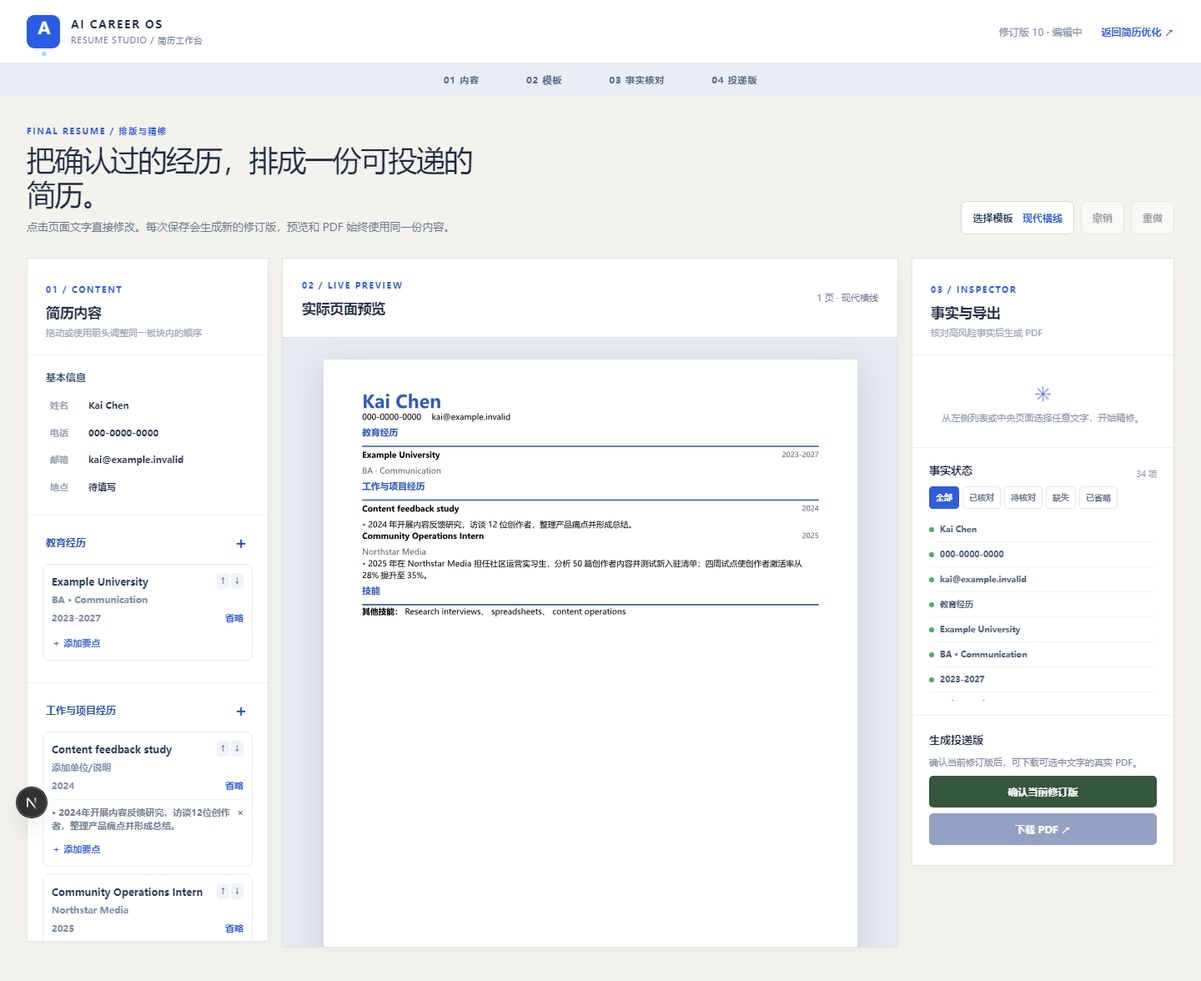
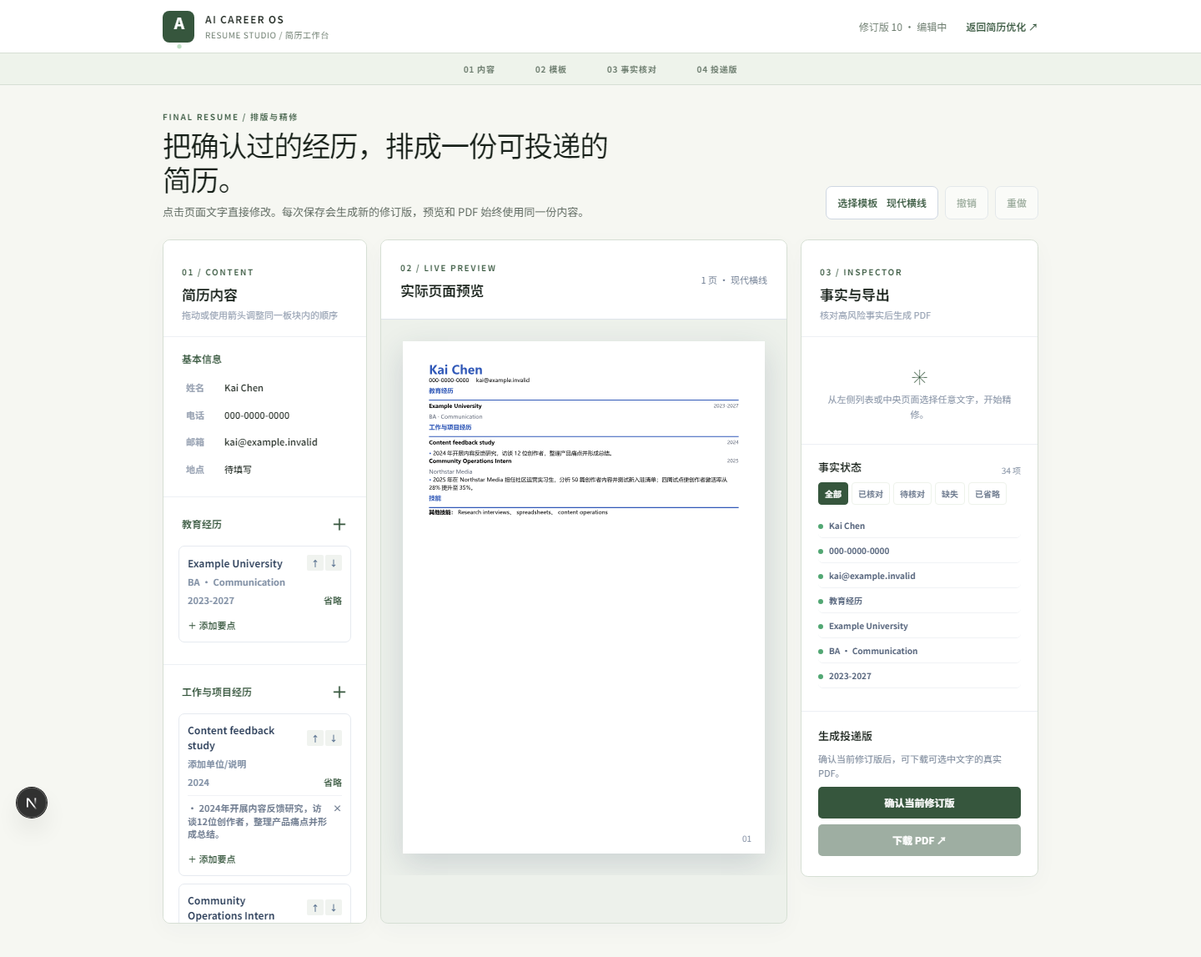
feat: align resume studio with mission UI

diff --git a/apps/web/app/resume-studio/studio.css b/apps/web/app/resume-studio/studio.css
@@ -1,44 +1,44 @@
-.rs-root { min-height: 100vh; background: #f4f2ed; color: #1d2940; font-family: "Microsoft YaHei", "Noto Sans SC", sans-serif; }
+.rs-root { --rs-bg: #f6f7f2; --rs-surface: #fff; --rs-surface-muted: #fbfcfa; --rs-ink: #172019; --rs-primary: #36563d; --rs-primary-soft: #e2f4e5; --rs-muted: #5d685f; --rs-meta: #6c7c6e; --rs-border: #d6dfd4; --rs-border-subtle: #edf1eb; min-height: 100vh; background: var(--rs-bg); color: var(--rs-ink); font-family: "Noto Sans SC", "PingFang SC", "Microsoft YaHei", sans-serif; }
 .rs-root * { box-sizing: border-box; }
 .rs-root button { cursor: pointer; }
 .rs-root button:disabled { opacity: .48; cursor: not-allowed; }
-.rs-root .rs-secondary { background: #fff; color: #253856; border: 1px solid #cfd7e2; }
-.rs-topbar { height: 76px; display: flex; align-items: center; justify-content: space-between; padding: 0 max(32px, calc((100vw - 1800px)/2)); background: #fff; border-bottom: 1px solid #e4e8ed; }
+.rs-root .rs-secondary { background: #fff; color: #36563d; border: 1px solid #cfd7e2; }
+.rs-topbar { height: 64px; display: flex; align-items: center; justify-content: space-between; padding: 0 max(24px, calc((100vw - 1050px)/2)); background: var(--rs-surface); border-bottom: 1px solid var(--rs-border); }
 .rs-brand { display: flex; align-items: center; gap: 13px; }
-.rs-logo { width: 40px; height: 40px; display: grid; place-items: center; background: #2d5ce4; color: white; border-radius: 9px; font-weight: 900; letter-spacing: -.1em; font-size: 20px; }
-.rs-logo span { color: #b7d2ff; }
+.rs-logo { width: 38px; height: 38px; display: grid; place-items: center; background: var(--rs-primary); color: white; border-radius: 8px; font-weight: 900; letter-spacing: -.1em; font-size: 19px; }
+.rs-logo span { color: #bfe0c4; }
 .rs-brand div { display: grid; gap: 2px; }
-.rs-brand strong { letter-spacing: .12em; font-size: 13px; }
-.rs-brand small { color: #72809a; letter-spacing: .08em; font-size: 10px; }
+.rs-brand strong { letter-spacing: .1em; font-size: 12px; }
+.rs-brand small { color: var(--rs-meta); letter-spacing: .06em; font-size: 10px; }
 .rs-top-actions { display: flex; gap: 23px; align-items: center; font-size: 12px; }
-.rs-top-actions a { text-decoration: none; color: #315dd7; font-weight: 700; }
-.rs-revision { color: #7d89a0; }
-.rs-stage { height: 40px; display: flex; justify-content: center; align-items: center; gap: 3.5rem; background: #e9edf5; color: #566887; font-size: 11px; font-weight: 700; letter-spacing: .08em; }
-.rs-toolbar { max-width: 1800px; margin: auto; padding: 34px 32px 28px; display: flex; align-items: end; justify-content: space-between; gap: 28px; }
-.rs-kicker, .rs-panel-heading > span, .rs-preview-heading span, .rs-gallery-header span { color: #315dd7; font-size: 10px; letter-spacing: .16em; font-weight: 800; }
+.rs-top-actions a { text-decoration: none; color: var(--rs-primary); font-weight: 700; }
+.rs-revision { color: var(--rs-meta); }
+.rs-stage { height: 38px; display: flex; justify-content: center; align-items: center; gap: 3rem; background: #eef3eb; color: var(--rs-meta); border-bottom: 1px solid var(--rs-border); font-size: 10px; font-weight: 700; letter-spacing: .08em; }
+.rs-toolbar { max-width: 1050px; margin: auto; padding: 30px 0 24px; display: flex; align-items: end; justify-content: space-between; gap: 24px; }
+.rs-kicker, .rs-panel-heading > span, .rs-preview-heading span, .rs-gallery-header span { color: var(--rs-primary); font-size: 10px; letter-spacing: .16em; font-weight: 800; }
 .rs-toolbar h1 { font-size: clamp(24px, 2.4vw, 36px); line-height: 1.2; letter-spacing: -.035em; margin: 6px 0 8px; }
-.rs-toolbar p:not(.rs-kicker) { margin: 0; color: #67758c; font-size: 13px; }
+.rs-toolbar p:not(.rs-kicker) { margin: 0; color: var(--rs-muted); font-size: 13px; }
 .rs-toolbar-buttons { display: flex; gap: 8px; flex-wrap: wrap; justify-content: end; }
 .rs-toolbar-buttons button { font-size: 12px; border-radius: 7px; padding: 10px 13px; white-space: nowrap; }
-.rs-toolbar-buttons b { margin-left: 8px; color: #315dd7; }
-.rs-alert { max-width: 1736px; margin: 0 auto 12px; padding: 11px 15px; border: 1px solid #bcd5c6; background: #eef8f0; color: #25533b; display: flex; justify-content: space-between; gap: 14px; font-size: 13px; }
+.rs-toolbar-buttons b { margin-left: 8px; color: #36563d; }
+.rs-alert { max-width: 1050px; margin: 0 auto 12px; padding: 11px 15px; border: 1px solid #bcd5c6; background: #eef8f0; color: #25533b; display: flex; justify-content: space-between; gap: 14px; font-size: 13px; }
 .rs-alert-error { border-color: #ebc9be; background: #fff1ed; color: #a34534; }
 .rs-alert button { background: none; color: inherit; padding: 0; text-decoration: underline; }
-.rs-source-update { max-width: 1736px; margin: 0 auto 12px; padding: 13px 16px; border: 1px solid #dfcb9f; background: #fff8e9; color: #6d512b; display: flex; align-items: center; justify-content: space-between; gap: 18px; font-size: 12px; }.rs-source-update p { margin: 4px 0; }.rs-source-update details { font-size: 11px; }.rs-source-update summary { cursor: pointer; color: #315dd7; }.rs-source-update button { background: #986e2b; flex: none; font-size: 11px; padding: 8px 10px; }
-.rs-workbench { max-width: 1800px; margin: auto; padding: 0 32px 40px; display: grid; grid-template-columns: minmax(245px, 290px) minmax(460px, 1fr) minmax(275px, 315px); gap: 16px; align-items: start; }
-.rs-outline, .rs-preview-panel, .rs-inspector { min-width: 0; border: 1px solid #dfe4eb; background: #fff; box-shadow: 0 8px 28px #20345308; }
+.rs-source-update { max-width: 1736px; margin: 0 auto 12px; padding: 13px 16px; border: 1px solid #dfcb9f; background: #fff8e9; color: #6d512b; display: flex; align-items: center; justify-content: space-between; gap: 18px; font-size: 12px; }.rs-source-update p { margin: 4px 0; }.rs-source-update details { font-size: 11px; }.rs-source-update summary { cursor: pointer; color: #36563d; }.rs-source-update button { background: #986e2b; flex: none; font-size: 11px; padding: 8px 10px; }
+.rs-workbench { max-width: 1050px; margin: auto; padding: 0 0 40px; display: grid; grid-template-columns: minmax(220px, 245px) minmax(430px, 1fr) minmax(255px, 285px); gap: 16px; align-items: start; }
+.rs-outline, .rs-preview-panel, .rs-inspector { min-width: 0; border: 1px solid var(--rs-border); border-radius: .55rem; background: var(--rs-surface); box-shadow: 0 8px 28px #20345308; overflow: hidden; }
 .rs-outline, .rs-inspector { max-height: calc(100vh - 180px); min-height: 640px; overflow-y: auto; }
 .rs-panel-heading { padding: 23px 22px 18px; border-bottom: 1px solid #edf0f4; }
 .rs-panel-heading h2, .rs-preview-heading h2 { font-size: 17px; letter-spacing: -.02em; margin: 5px 0 3px; }
 .rs-panel-heading small { display: block; color: #98a3b4; font-size: 11px; line-height: 1.5; }
 .rs-basics, .rs-section-list { padding: 17px 18px; border-bottom: 1px solid #edf0f4; }
-.rs-basics > strong { display: block; color: #364c6d; font-size: 12px; margin: 0 4px 9px; }
-.rs-row { display: flex; width: 100%; text-align: left; align-items: center; gap: 10px; padding: 8px 9px; color: #1d2940; background: transparent; border: 0; border-radius: 5px; font-size: 11px; }
+.rs-basics > strong { display: block; color: #36563d; font-size: 12px; margin: 0 4px 9px; }
+.rs-row { display: flex; width: 100%; text-align: left; align-items: center; gap: 10px; padding: 8px 9px; color: #172019; background: transparent; border: 0; border-radius: 5px; font-size: 11px; }
 .rs-row span { color: #9aa4b4; width: 36px; flex: none; }
 .rs-row b { overflow: hidden; text-overflow: ellipsis; white-space: nowrap; font-weight: 600; }
-.rs-row:hover, .rs-row.selected { background: #eaf0ff; }
+.rs-row:hover, .rs-row.selected { background: #eef7ed; }
 .rs-section-title { display: flex; justify-content: space-between; align-items: center; margin-bottom: 11px; }
-.rs-section-title button { background: none; border: 0; padding: 0 4px; color: #244cad; font-size: 12px; font-weight: 800; }
+.rs-section-title button { background: none; border: 0; padding: 0 4px; color: #36563d; font-size: 12px; font-weight: 800; }
 .rs-section-title button:last-child { font-size: 20px; }
 .rs-entry { border: 1px solid #e6eaf0; border-radius: 7px; padding: 10px; margin-bottom: 9px; background: #fff; }
 .rs-entry:hover { border-color: #a9bde7; }
@@ -46,16 +46,16 @@
 .rs-entry-head { display: flex; align-items: center; justify-content: space-between; gap: 5px; }
 .rs-entry-name { color: #263955; font-size: 12px; font-weight: 800; text-align: left; border: 0; background: none; padding: 0; flex: 1; }
 .rs-move { display: flex; }
-.rs-move button { background: #f0f3f8; color: #57708f; padding: 2px 5px; border-radius: 2px; font-size: 10px; margin-left: 2px; }
+.rs-move button { background: #f0f3ef; color: #57708f; padding: 2px 5px; border-radius: 2px; font-size: 10px; margin-left: 2px; }
 .rs-subline, .rs-entry-meta button { display: block; border: 0; background: none; color: #8190a5; padding: 0; font-size: 11px; text-align: left; }
 .rs-subline { margin: 5px 0; }
 .rs-entry-meta { display: flex; justify-content: space-between; margin: 5px 0 8px; }
-.rs-entry-meta button:last-child { color: #315dd7; }
+.rs-entry-meta button:last-child { color: #36563d; }
 .rs-bullet { display: flex; align-items: start; border-top: 1px solid #f0f2f5; padding: 7px 0; gap: 4px; }
 .rs-bullet button { border: 0; background: none; padding: 0; color: #6e7b8f; font-size: 11px; line-height: 1.4; }
 .rs-bullet-text { text-align: left; flex: 1; }
-.rs-add-bullet { background: none; color: #315dd7; border: 0; padding: 5px 0 0; font-size: 11px; }
-.rs-preview-panel { background: #e7eaf0; min-height: calc(100vh - 180px); }
+.rs-add-bullet { background: none; color: #36563d; border: 0; padding: 5px 0 0; font-size: 11px; }
+.rs-preview-panel { background: #edf1eb; min-height: calc(100vh - 180px); }
 .rs-preview-heading { display: flex; align-items: center; justify-content: space-between; padding: 18px 23px; background: #fff; border-bottom: 1px solid #dfe4eb; }
 .rs-preview-heading small { color: #6f7d92; font-size: 11px; }
 .rs-pages { padding: 26px; display: grid; justify-items: center; gap: 22px; overflow: auto; max-height: calc(100vh - 270px); }
@@ -63,7 +63,7 @@
 .rs-page img { display: block; width: 100%; height: auto; }
 .rs-page-number { position: absolute; right: 11px; bottom: 9px; color: #8b96aa; font-size: 10px; background: #fffc; border-radius: 2px; padding: 2px 5px; }
 .rs-hotspot { position: absolute; min-width: 16px; padding: 0; border: 1px solid transparent; border-radius: 0; background: transparent; }
-.rs-hotspot:hover, .rs-hotspot.selected { background: #3f73ed25; border-color: #2d5ce4; }
+.rs-hotspot:hover, .rs-hotspot.selected { background: #36563d25; border-color: #36563d; }
 .rs-page-placeholder { width: 100%; aspect-ratio: 595/842; background: white; color: #8593a9; display: grid; place-items: center; font-size: 13px; }
 .rs-edit-card { padding: 18px 20px; border-bottom: 1px solid #edf0f4; }
 .rs-edit-top { display: flex; justify-content: space-between; align-items: center; gap: 8px; font-size: 10px; color: #8793a5; }
@@ -74,22 +74,22 @@
 .rs-fact-badge.omitted { background: #eceef2; color: #768198; }
 .rs-edit-card label { display: block; font-size: 11px; font-weight: 800; margin: 17px 0 7px; }
 .rs-edit-card textarea { display: block; resize: vertical; width: 100%; border: 1px solid #cdd7e6; border-radius: 5px; padding: 10px; color: #243552; line-height: 1.6; font: inherit; font-size: 13px; }
-.rs-edit-card textarea:focus { outline: 2px solid #9bb6fa; border-color: #315dd7; }
+.rs-edit-card textarea:focus { outline: 2px solid #9bb6fa; border-color: #36563d; }
 .rs-edit-actions { display: flex; gap: 7px; margin-top: 11px; }
 .rs-edit-actions button { border-radius: 5px; padding: 8px 11px; font-size: 11px; }
-.rs-source-toggle { margin-top: 17px; padding: 8px 0; background: none; color: #315dd7; font-size: 11px; }
-.rs-source { background: #f2f5fa; padding: 8px 10px; overflow-wrap: anywhere; color: #5b6c83; font-size: 10px; line-height: 1.6; }
+.rs-source-toggle { margin-top: 17px; padding: 8px 0; background: none; color: #36563d; font-size: 11px; }
+.rs-source { background: #f0f3ef; padding: 8px 10px; overflow-wrap: anywhere; color: #5b6c83; font-size: 10px; line-height: 1.6; }
 .rs-source p { margin: 4px 0; }
 .rs-confirm-fact { display: block; margin-top: 12px; padding: 8px 11px; border-radius: 5px; font-size: 11px; background: #2f7655; }
 .rs-inspector-empty { text-align: center; padding: 26px 22px; color: #8894a6; font-size: 11px; border-bottom: 1px solid #edf0f4; line-height: 1.6; }
-.rs-inspector-empty span { font-size: 25px; color: #315dd7; }
+.rs-inspector-empty span { font-size: 25px; color: #36563d; }
 .rs-facts { padding: 17px 20px; border-bottom: 1px solid #edf0f4; }
 .rs-facts-heading { display: flex; align-items: center; justify-content: space-between; }
 .rs-facts-heading h3, .rs-export h3 { margin: 0 0 9px; font-size: 13px; }
 .rs-facts-heading span { color: #8c98a9; font-size: 10px; }
 .rs-fact-filters { display: flex; flex-wrap: wrap; gap: 4px; }
-.rs-fact-filters button { padding: 5px 7px; border: 1px solid #e1e6ef; background: white; color: #6d7a8e; border-radius: 4px; font-size: 10px; }
-.rs-fact-filters button.active { background: #315dd7; color: white; border-color: #315dd7; }
+.rs-fact-filters button { padding: 5px 7px; border: 1px solid #eef3eb; background: white; color: #6d7a8e; border-radius: 4px; font-size: 10px; }
+.rs-fact-filters button.active { background: #36563d; color: white; border-color: #36563d; }
 .rs-fact-list { max-height: 220px; overflow-y: auto; margin-top: 10px; }
 .rs-fact-list button { width: 100%; display: flex; align-items: baseline; gap: 7px; text-align: left; background: none; border: 0; border-bottom: 1px solid #f0f2f5; color: #53627a; font-size: 10px; padding: 7px 0; }
 .rs-fact-list button span:last-child { overflow: hidden; text-overflow: ellipsis; white-space: nowrap; }
@@ -98,21 +98,21 @@
 .rs-export { padding: 19px 20px 24px; }
 .rs-export p { color: #7a8799; font-size: 11px; line-height: 1.6; }
 .rs-export button { width: 100%; border-radius: 5px; padding: 10px; font-size: 12px; margin-top: 7px; }
-.rs-export .rs-download { background: #1f3c82; }
+.rs-export .rs-download { background: #36563d; }
 .rs-mobile-tabs { display: none; }
 .rs-gallery-backdrop, .rs-sample-backdrop { position: fixed; inset: 0; z-index: 100; background: #111e38b8; display: grid; place-items: center; padding: 24px; }
-.rs-gallery { width: min(1280px, 100%); max-height: 94vh; overflow: auto; background: #f6f7f8; box-shadow: 0 22px 90px #101b30aa; }
+.rs-gallery { width: min(1280px, 100%); max-height: 94vh; overflow: auto; background: #fbfcfa; box-shadow: 0 22px 90px #101b30aa; }
 .rs-gallery-header { display: flex; justify-content: space-between; gap: 20px; align-items: start; padding: 26px 32px 20px; background: #fff; }
-.rs-gallery-header h2 { font-size: 27px; margin: 4px 0 7px; }.rs-gallery-header p { margin: 0; color: #7b899b; font-size: 12px; }.rs-gallery-header > button { background: #f0f3f7; color: #52647f; font-size: 22px; width: 36px; height: 36px; padding: 0; }
+.rs-gallery-header h2 { font-size: 27px; margin: 4px 0 7px; }.rs-gallery-header p { margin: 0; color: #7b899b; font-size: 12px; }.rs-gallery-header > button { background: #f0f3f7; color: #506054; font-size: 22px; width: 36px; height: 36px; padding: 0; }
 .rs-language-tabs { display: flex; align-items: center; gap: 8px; padding: 14px 32px; border-bottom: 1px solid #dfe4eb; }
-.rs-language-tabs button { background: transparent; border: 1px solid #cbd5e4; color: #526784; padding: 9px 14px; border-radius: 5px; font-size: 12px; }.rs-language-tabs button.active { background: #315dd7; color: white; border-color: #315dd7; }.rs-language-tabs b { margin-left: 10px; }.rs-language-tabs span { margin-left: auto; color: #8693a6; font-size: 11px; }
+.rs-language-tabs button { background: transparent; border: 1px solid #cbd5e4; color: #506054; padding: 9px 14px; border-radius: 5px; font-size: 12px; }.rs-language-tabs button.active { background: #36563d; color: white; border-color: #36563d; }.rs-language-tabs b { margin-left: 10px; }.rs-language-tabs span { margin-left: auto; color: #8693a6; font-size: 11px; }
 .rs-template-grid { display: grid; grid-template-columns: repeat(3, 1fr); gap: 18px; padding: 22px 32px 36px; }
-.rs-template-card { background: #fff; border: 1px solid #e1e5ed; min-width: 0; }.rs-template-card.active { border-color: #315dd7; box-shadow: 0 0 0 2px #315dd740; }
+.rs-template-card { background: #fff; border: 1px solid #e1e5ed; min-width: 0; }.rs-template-card.active { border-color: #36563d; box-shadow: 0 0 0 2px #36563d40; }
 .rs-template-image { display: grid; place-items: center; width: 100%; aspect-ratio: 1.25; padding: 15px; overflow: hidden; border: 0; border-radius: 0; background: #edf0f5; color: #93a0b2; font-size: 11px; }.rs-template-image img { height: 100%; width: auto; max-width: 100%; object-fit: contain; box-shadow: 0 5px 20px #1b2c4b24; }
-.rs-template-info { padding: 15px 18px 19px; }.rs-template-info > span { font-size: 10px; font-weight: 800; letter-spacing: .13em; color: #5573aa; text-transform: uppercase; }.rs-template-info h3 { margin: 5px 0 4px; font-size: 16px; }.rs-template-info p { margin: 0 0 13px; color: #8c98a7; font-size: 11px; }.rs-template-info button { padding: 8px 12px; font-size: 11px; border-radius: 4px; }.rs-template-info small { color: #a0753f; font-size: 10px; }
-.rs-sample-backdrop { z-index: 110; }.rs-sample-modal { max-height: 95vh; overflow: auto; background: #e9edf3; padding: 24px; width: min(760px, 100%); text-align: center; }.rs-sample-modal > button { float: right; padding: 6px 10px; }.rs-sample-modal h2 { text-align: left; font-size: 18px; }.rs-sample-modal img { display: block; width: min(100%, 600px); margin: 16px auto; box-shadow: 0 8px 25px #182e4b30; }
+.rs-template-info { padding: 15px 18px 19px; }.rs-template-info > span { font-size: 10px; font-weight: 800; letter-spacing: .13em; color: #43694b; text-transform: uppercase; }.rs-template-info h3 { margin: 5px 0 4px; font-size: 16px; }.rs-template-info p { margin: 0 0 13px; color: #8c98a7; font-size: 11px; }.rs-template-info button { padding: 8px 12px; font-size: 11px; border-radius: 4px; }.rs-template-info small { color: #a0753f; font-size: 10px; }
+.rs-sample-backdrop { z-index: 110; }.rs-sample-modal { max-height: 95vh; overflow: auto; background: #edf1eb; padding: 24px; width: min(760px, 100%); text-align: center; }.rs-sample-modal > button { float: right; padding: 6px 10px; }.rs-sample-modal h2 { text-align: left; font-size: 18px; }.rs-sample-modal img { display: block; width: min(100%, 600px); margin: 16px auto; box-shadow: 0 8px 25px #182e4b30; }
 .rs-language-notice { position: fixed; z-index: 106; left: 50%; bottom: 24px; transform: translateX(-50%); width: min(760px, calc(100% - 32px)); display: flex; align-items: center; justify-content: space-between; gap: 14px; background: #fff4df; box-shadow: 0 10px 40px #15274455; color: #805b28; padding: 11px 15px; line-height: 1.5; font-size: 11px; }.rs-language-notice button { flex: none; background: #986e2b; padding: 7px 10px; font-size: 10px; }
 @media (max-width: 760px) { .rs-language-notice { display: block; bottom: 8px; }.rs-language-notice button { display: block; margin-top: 7px; } }
-.rs-loading { min-height: 100vh; display: grid; place-content: center; text-align: center; gap: 10px; background: #f4f2ed; }.rs-loading h1 { margin: 0; }.rs-loading a { color: #315dd7; }
-@media (max-width: 1150px) { .rs-workbench { grid-template-columns: 230px minmax(350px, 1fr); }.rs-inspector { grid-column: 1 / -1; max-height: none; min-height: 0; display: grid; grid-template-columns: 1fr 1fr; }.rs-inspector .rs-panel-heading { grid-column: 1 / -1; }.rs-export { grid-column: 1 / -1; }.rs-template-grid { grid-template-columns: repeat(2, 1fr); } }
-@media (max-width: 760px) { .rs-topbar { padding: 0 16px; height: 62px; }.rs-top-actions { gap: 8px; }.rs-revision, .rs-stage { display: none; }.rs-toolbar { display: block; padding: 25px 16px 16px; }.rs-toolbar h1 { font-size: 23px; }.rs-toolbar-buttons { justify-content: start; margin-top: 16px; }.rs-workbench { display: block; padding: 0 12px 25px; }.rs-mobile-tabs { display: flex; padding: 0 12px 12px; gap: 5px; }.rs-mobile-tabs button { flex: 1; background: #e1e6ef; color: #405573; border-radius: 5px; }.rs-mobile-tabs button.active { background: #315dd7; color: white; }.rs-mobile-hidden { display: none !important; }.rs-outline, .rs-inspector { max-height: none; min-height: 0; margin-bottom: 12px; }.rs-inspector { display: block; }.rs-preview-panel { min-height: 0; }.rs-pages { padding: 12px; max-height: none; }.rs-preview-heading { padding: 14px; }.rs-gallery-backdrop { padding: 0; }.rs-gallery { max-height: 100vh; }.rs-gallery-header { padding: 20px 16px; }.rs-template-grid { grid-template-columns: 1fr 1fr; padding: 14px; gap: 8px; }.rs-template-info { padding: 10px; }.rs-template-info h3 { font-size: 13px; }.rs-language-tabs { padding: 10px 14px; flex-wrap: wrap; }.rs-language-tabs span { width: 100%; }.rs-alert { margin: 0 12px 12px; } }
+.rs-loading { min-height: 100vh; display: grid; place-content: center; text-align: center; gap: 10px; background: #f6f7f2; }.rs-loading h1 { margin: 0; }.rs-loading a { color: #36563d; }
+@media (max-width: 1150px) { .rs-toolbar, .rs-workbench { padding-left: 24px; padding-right: 24px; }.rs-alert { margin-left: 24px; margin-right: 24px; }.rs-workbench { grid-template-columns: 230px minmax(350px, 1fr); }.rs-inspector { grid-column: 1 / -1; max-height: none; min-height: 0; display: grid; grid-template-columns: 1fr 1fr; }.rs-inspector .rs-panel-heading { grid-column: 1 / -1; }.rs-export { grid-column: 1 / -1; }.rs-template-grid { grid-template-columns: repeat(2, 1fr); } }
+@media (max-width: 760px) { .rs-topbar { padding: 0 16px; height: 62px; }.rs-top-actions { gap: 8px; }.rs-revision, .rs-stage { display: none; }.rs-toolbar { display: block; padding: 25px 16px 16px; }.rs-toolbar h1 { font-size: 23px; }.rs-toolbar-buttons { justify-content: start; margin-top: 16px; }.rs-workbench { display: block; padding: 0 12px 25px; }.rs-mobile-tabs { display: flex; padding: 0 12px 12px; gap: 5px; }.rs-mobile-tabs button { flex: 1; background: #eef3eb; color: #36563d; border-radius: 5px; }.rs-mobile-tabs button.active { background: #36563d; color: white; }.rs-mobile-hidden { display: none !important; }.rs-outline, .rs-inspector { max-height: none; min-height: 0; margin-bottom: 12px; }.rs-inspector { display: block; }.rs-preview-panel { min-height: 0; }.rs-pages { padding: 12px; max-height: none; }.rs-preview-heading { padding: 14px; }.rs-gallery-backdrop { padding: 0; }.rs-gallery { max-height: 100vh; }.rs-gallery-header { padding: 20px 16px; }.rs-template-grid { grid-template-columns: 1fr 1fr; padding: 14px; gap: 8px; }.rs-template-info { padding: 10px; }.rs-template-info h3 { font-size: 13px; }.rs-language-tabs { padding: 10px 14px; flex-wrap: wrap; }.rs-language-tabs span { width: 100%; }.rs-alert { margin: 0 12px 12px; } }

diff --git a/README.md b/README.md
@@ -23,11 +23,58 @@ The product is designed for AI product, technical product, and intelligent-hardw
 - Resume-writing guardrails in `knowledge/resume_skills/`
 - Permanent profile deletion with dependent workflow cleanup
 
+## Product structure
+
+| Layer | Main entry | Responsibility |
+|---|---|---|
+|岗位档案|`/missions`|管理多个目标岗位、绑定简历来源并恢复历史任务|
+|岗位识别|`/missions/{missionId}/role`|解析 JD、确认公司/岗位/地点和核心要求|
+|简历优化|`/missions/{missionId}/resume`|保留原始经历，筛选优先级并逐条确认岗位定向改写|
+|简历工作台|`/missions/{missionId}/resume/studio`|编辑排版、核对事实、选择模板并生成 PDF|
+|模拟面试|`/missions/{missionId}/interview`|根据 JD、确认版简历和面经生成问题、评分与追问|
+|面试记录库|`/interview-records`|按公司保存真实面试题目、回答和复盘结果|
+
+Studio 与岗位页共用同一套界面语言：米白页面背景、深绿色主色、细绿色边框、圆角白色卡片、短标签和明确的主次按钮。Studio 只扩展了三栏编辑工作台，不改变岗位流程或事实状态模型。
+
+## Local development
+
+```powershell
+# API
+cd apps/api
+python -m venv .venv
+.\.venv\Scripts\Activate.ps1
+pip install -r requirements.txt
+uvicorn app.main:app --reload --port 8000
+
+# Web（另开终端）
+cd apps/web
+npm install
+$env:NEXT_PUBLIC_API_BASE_URL = "http://127.0.0.1:8000"
+npm run dev -- --port 3000
+```
+
+打开 `http://127.0.0.1:3000/missions`。生产环境需要在 API 服务端配置 `DATABASE_URL`、`FRONTEND_ORIGINS` 和模型 provider 参数；密钥、真实简历、生产数据库和 Typst 二进制不进入 Git。
+
+## Verification commands
+
+```powershell
+cd apps/web
+npm test
+npm run type-check
+npm run build
+
+cd ../api
+python -m pytest -q
+python -m compileall -q app
+```
+
+评测与浏览器证据见 [`docs/evaluation/`](docs/evaluation/)。当前 Project Tour 的真实截图和运行报告在 [`docs/screenshots/project-tour-2026-10-10/`](docs/screenshots/project-tour-2026-10-10/) 与 [`docs/evaluation/e2e-2026-10-10/`](docs/evaluation/e2e-2026-10-10/)。
+
 ## Product tour
 
-The current verified tour below was captured from the local application on 2026-10-10 using the isolated synthetic profile documented in [`docs/evaluation/e2e-2026-10-10/README.md`](docs/evaluation/e2e-2026-10-10/README.md). It covers the live routes that are safe to share: mission list, role confirmation, resume review, Resume Studio, mock-interview preview, and Interview Memory. The screenshots are fresh browser captures from the current branch; no static mock HTML is used.
+The current verified tour below uses browser captures from the local application on 2026-10-10 with the isolated synthetic profile documented in [`docs/evaluation/e2e-2026-10-10/README.md`](docs/evaluation/e2e-2026-10-10/README.md). The Resume Studio visual alignment was updated and locally verified on 2026-10-11. It covers the live routes that are safe to share: mission list, role confirmation, resume review, Resume Studio, mock-interview preview, and Interview Memory. The screenshots are browser captures from the current product flow; no static mock HTML is used.
 
-### Current verified route / 当前真实测试截图（2026-10-10）
+### Current verified route / 当前真实测试截图（截图 2026-10-10，Studio 视觉更新 2026-10-11）
 
 1. **Mission list / 岗位档案** — restored synthetic profile and two saved missions.
 

diff --git a/docs/evaluation/e2e-2026-10-10/README.md b/docs/evaluation/e2e-2026-10-10/README.md
@@ -1,6 +1,6 @@
 # E2E evidence — 2026-10-10
 
-This is a fresh browser capture of the current `feature/eval-benchmark-v1` worktree after the 2026-10-09 dogfood fixes.
+This is the browser evidence set captured on 2026-10-10 from the `feature/eval-benchmark-v1` worktree after the 2026-10-09 dogfood fixes. The 2026-10-11 Resume Studio visual alignment pass was verified against the same local route and is represented by the updated Studio screenshot in the tour.
 
 ## Services and data
 
@@ -23,7 +23,7 @@ No private or consented-real resume was copied into the repository. The screensh
 | `05-interview.png` | `/missions/{mission}/interview` | 200; JD-grounded question preview visible |
 | `06-interview-records.png` | `/interview-records?profile_id=...` | 200; company-grouped record visible |
 
-Machine-readable route evidence is in `../../screenshots/project-tour-2026-10-10/report.json`. The capture script is `browser/capture-tour.cjs`; it uses Playwright against the running local app and saves full-page PNGs. A video was not captured in this run, so the tour links to these fresh screenshots instead.
+Machine-readable route evidence is in `../../screenshots/project-tour-2026-10-10/report.json`. The capture script is `browser/capture-tour.cjs`; it uses Playwright against the running local app and saves full-page PNGs. The Studio screenshot specifically verifies the unified mission-page visual system: green primary actions, warm off-white background, rounded cards, and the same reading width as the surrounding workflow. A video was not captured in this run, so the tour links to these fresh screenshots instead.
 
 ## Scope limits
 
